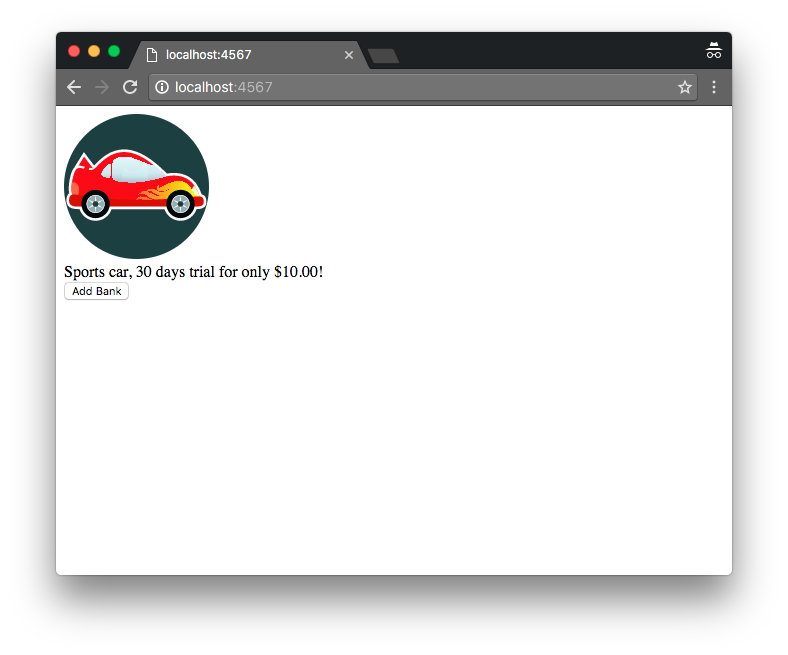
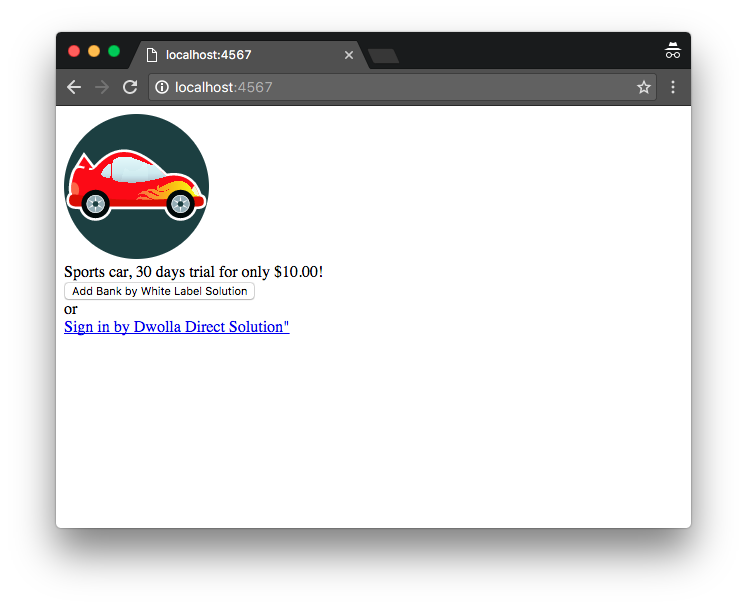
killbill/killbill-dwolla-plugin#1 : Docs updated

Changed region(s): [[0.0616, 0.0312, 0.9545, 0.9062]]

diff --git a/app.rb b/app.rb
@@ -7,6 +7,7 @@ set :kb_url, ENV['KB_URL'] || 'http://127.0.0.1:8080'
 set :client_id, ENV['DWOLLA_CLIENT_ID']
 set :client_secret, ENV['DWOLLA_CLIENT_SECRET']
 set :dwolla_access_token, ENV['DWOLLA_ACCESS_TOKEN']
+set :customer_id, ''
 
 #
 # Kill Bill configuration and helpers
@@ -29,7 +30,7 @@ comment = 'Trigger by Sinatra'
 
 def create_kb_account(dwolla_customer_id, user, reason, comment, options)
   account = KillBillClient::Model::Account.new
-  account.name = 'John Doe'
+  account.name = "John Doe #{dwolla_customer_id}"
   account.currency = 'USD'
   account.external_key = dwolla_customer_id
   account.create(user, reason, comment, options)
@@ -113,12 +114,14 @@ get '/' do
   @customerId = get_key_from_url(customer_url, '/customers/')
   @clientId = settings.client_id
 
+  settings.customer_id = @customerId
+
   erb :index
 end
 
 post '/charge' do
   # Create an account
-  account = create_kb_account(@customerId, user, reason, comment, options)
+  account = create_kb_account(settings.customer_id, user, reason, comment, options)
 
   # Add a payment method associated with the Dwolla funding source
   fundingSourceId = get_key_from_url(params['fundingSource'], '/funding-sources/')
@@ -136,7 +139,7 @@ end
 
 get '/callback' do
   # Create an account
-  account = create_kb_account(@customerId, user, reason, comment, options)
+  account = create_kb_account(nil, user, reason, comment, options)
 
   # Add a payment method associated with the Dwolla Direct auth code
   create_kb_payment_method(account, nil, nil, params['code'], user, reason, comment, options)

diff --git a/README.md b/README.md
@@ -40,9 +40,20 @@ KB_URL='http://<host>:<port>' DWOLLA_CLIENT_ID='<MERCHANT_DWOLLA_CLIENT_ID>' DWO
 ```
 
 
-Then go to [http://localhost:4567/](http://localhost:4567/) where you should see the Dwolla **Add Bank** button.
+Then go to [http://localhost:4567/](http://localhost:4567/) where you should see both Dwolla solutions.
 
-Select a Bank, follow the steps with dummy data and complete the checkout process.
+The first option is the White Label solution, that you don't need a Dwolla account and where you are able to select your bank and account by your bank credentials. 
+Steps: 
+
+* Press **Add Bank by White Label Solution** button.
+* Select a Bank, follow the steps with any dummy data and complete the checkout process.
+
+
+The other option is the Dwolla Direct solution, where you are redirect to Dwolla page and you have to login with you Dwolla account. It's also have the option to create a new Dwolla account if you don't have one.
+Steps: 
+
+* Press **Sign in by Dwolla Direct Solution** link.
+* Log in or sign up and complete the checkout process.
 
 This will:
 
@@ -57,5 +68,7 @@ This will:
 
 ![Shopping cart](./screen1.png)
 
-![Checkout](./screen2.png)
+![White Label solution](./screen2.png)
+
+![Dwolla Direct solution](./screen3.png)
 
